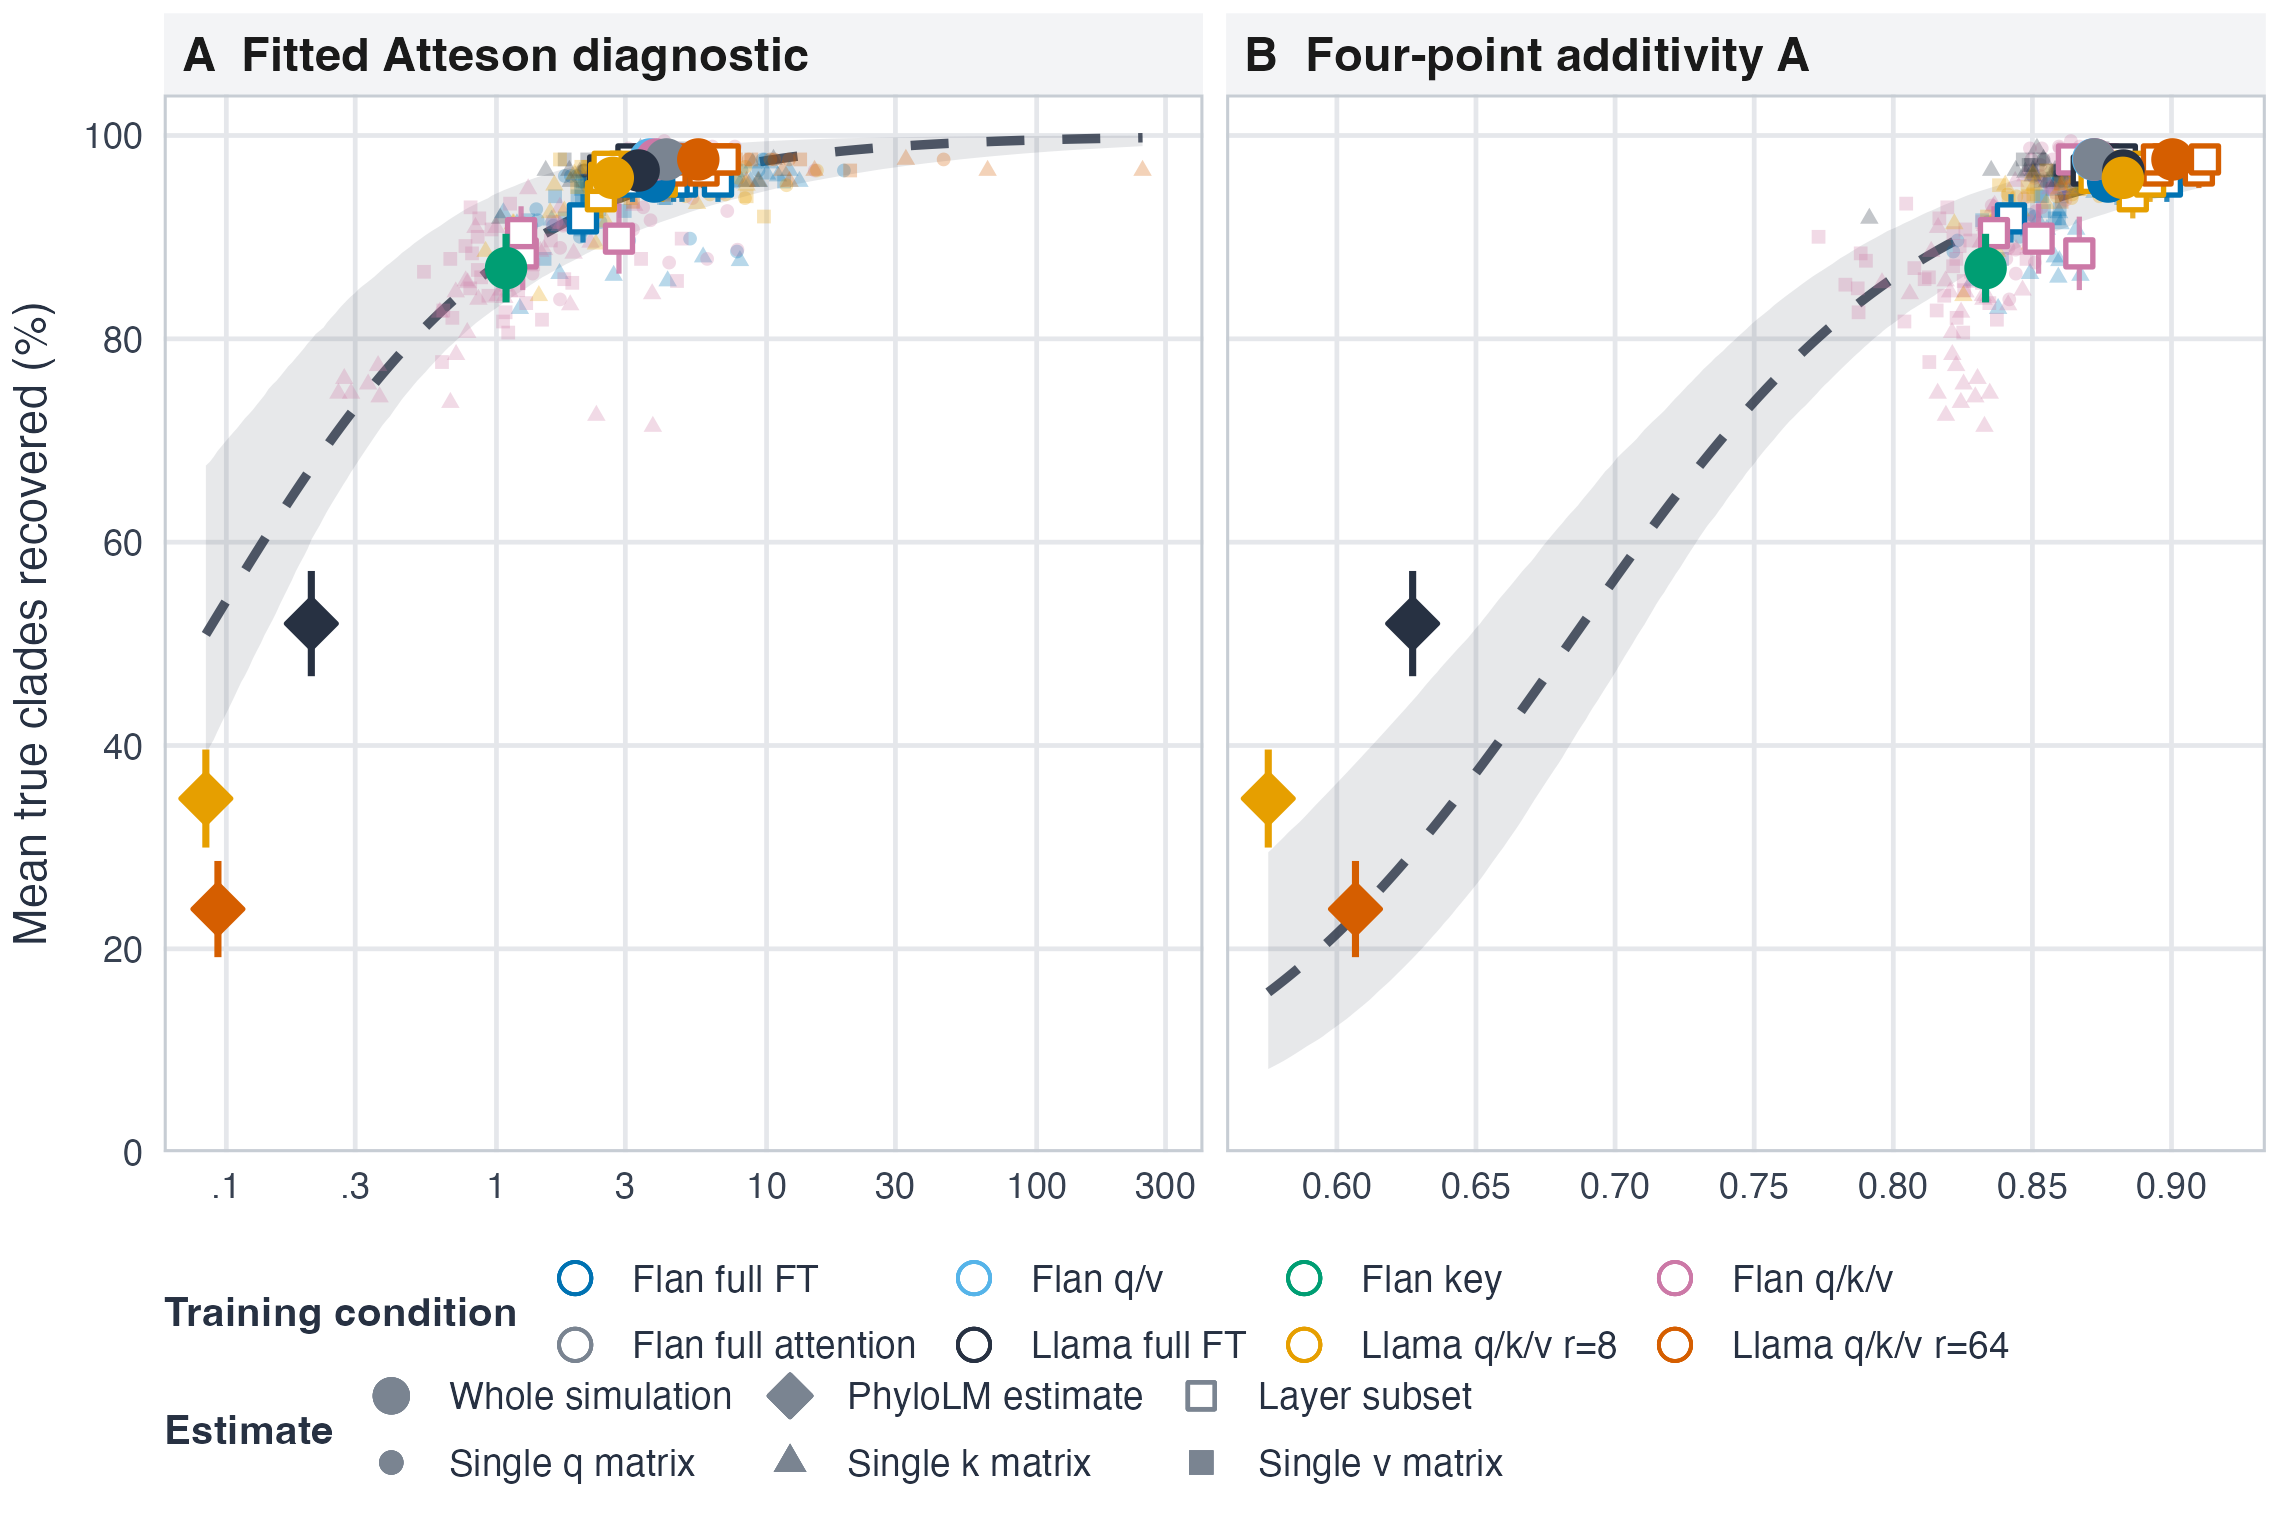
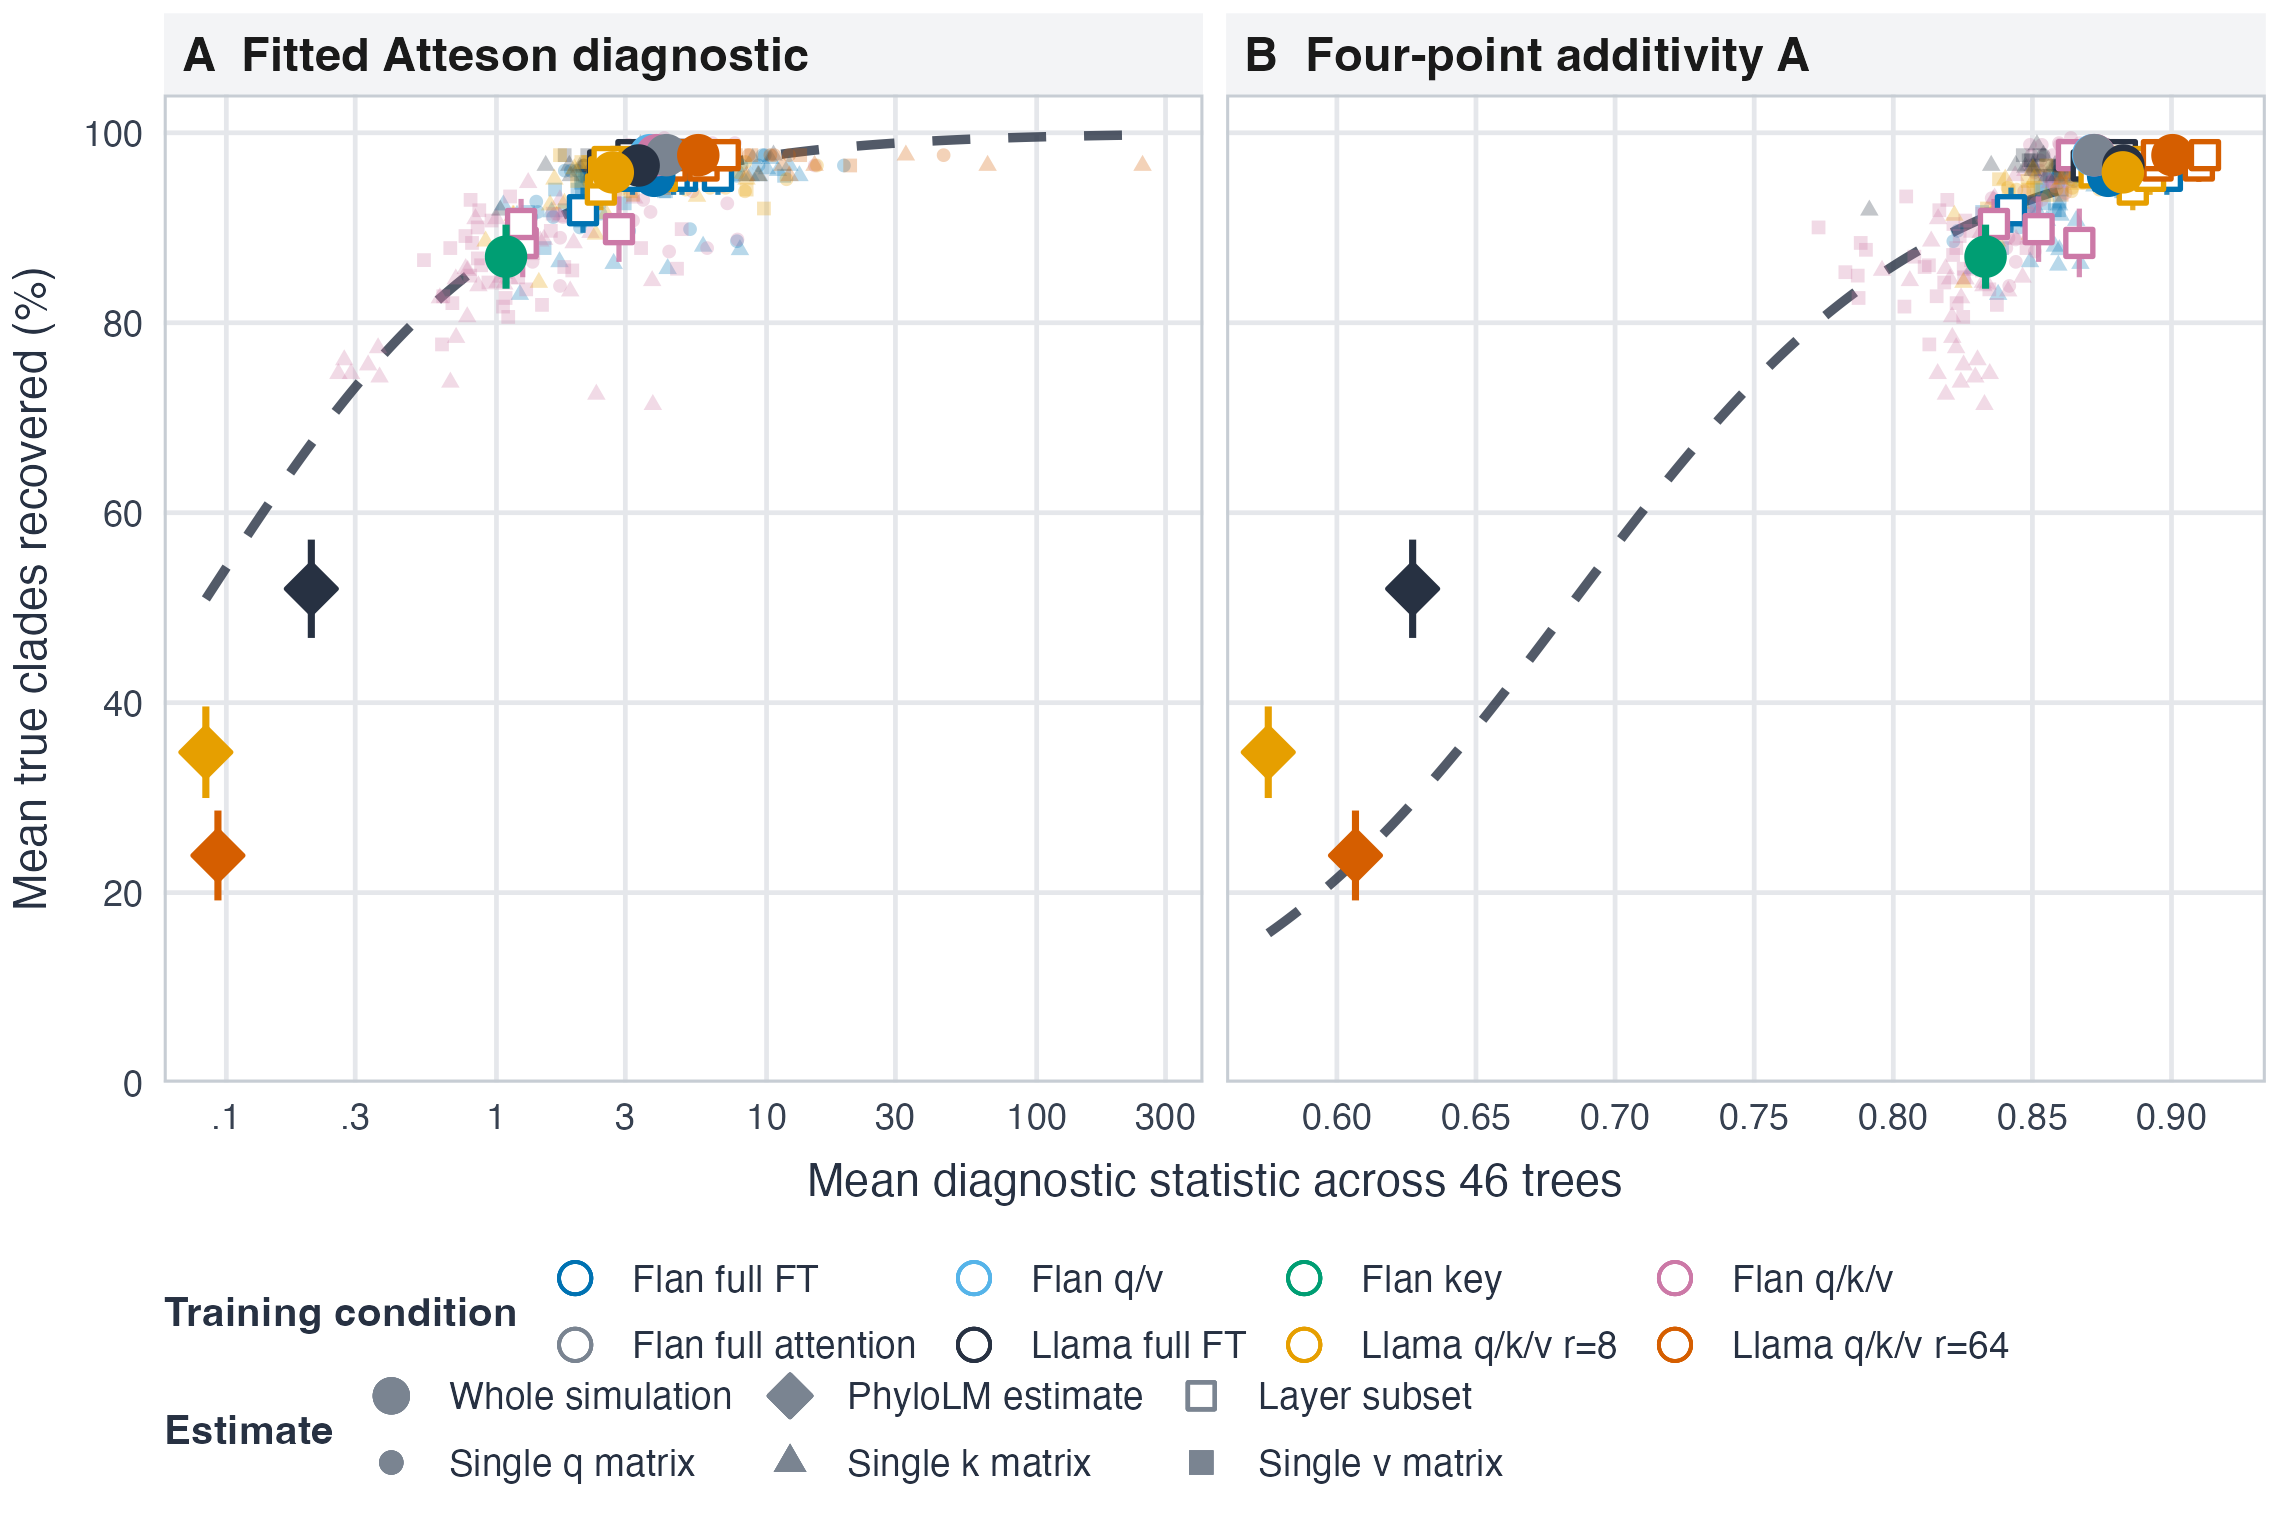
Clarify Figure 2 mean diagnostics

diff --git a/iclr_draft_v4.tex b/iclr_draft_v4.tex
@@ -448,8 +448,8 @@ Finally, Figure~\ref{fig:coherence_recovery} shows simulation-level, layer-subse
     Every mark is an average over the same 46 topology-eligible trees used in
     Tables~\ref{tab:variants} and~\ref{tab:phylolm}; vertical intervals on simulation, PhyloLM, and
     subset summaries are $\pm1$ SE. Dark dashed curves are pooled fractional-logit fits to all
-    displayed estimator summaries; shaded bands are 95\% intervals from 2,000 paired bootstrap
-    resamples of the 46 tree IDs.
+    displayed estimator summaries. Odds-ratio intervals reported in the text use 2,000 paired
+    bootstrap resamples of the 46 tree IDs.
     Panel A uses a log scale.}
   \label{fig:coherence_recovery}
 \end{figure}

diff --git a/FIGURES.md b/FIGURES.md
@@ -17,7 +17,8 @@ Notes:
 - Figure 2 data are built by `WeightTraits/scripts/build_merged_weight_figure2.py` from the full-FT
   and fresh merged-weight distance cubes plus the fresh matched PhyloLM per-run metrics, then rendered
   by `ELLMTrees/scripts/ggplot/make_merged_weight_figure2.R` with the shared publication theme. Its
-  fractional-logit bands and odds-ratio intervals use a paired bootstrap over the 46 tree IDs.
+  reported odds-ratio intervals use a paired bootstrap over the 46 tree IDs; the intervals are not
+  drawn on the figure.
 - `scripts/export_ggplot_data.py` reuses the existing Python analysis functions and exports stable,
   tidy CSVs. It does not alter or duplicate the scientific calculations.
 - `scripts/ggplot/make_paper_figures.R` owns presentation through one shared publication theme.

diff --git a/HANDOFF_FIGURE2_20260804.md b/HANDOFF_FIGURE2_20260804.md
@@ -46,7 +46,9 @@ deviance explained. The reported contrasts are:
 
 Intervals come from 2,000 replicates that resample the 46 tree IDs jointly across every estimator,
 recompute all 400 x/y means, and refit both fractional logits. This preserves the shared-tree pairing.
-The shaded regions behind the dashed curves show the corresponding pointwise bootstrap intervals.
+The bootstrap intervals are reported numerically but are not drawn on the figure, keeping the dense
+estimator display visually clean. The shared x-axis label explicitly identifies each plotted
+diagnostic as a mean statistic across the 46 trees.
 
 ## Scientific interpretation
 
